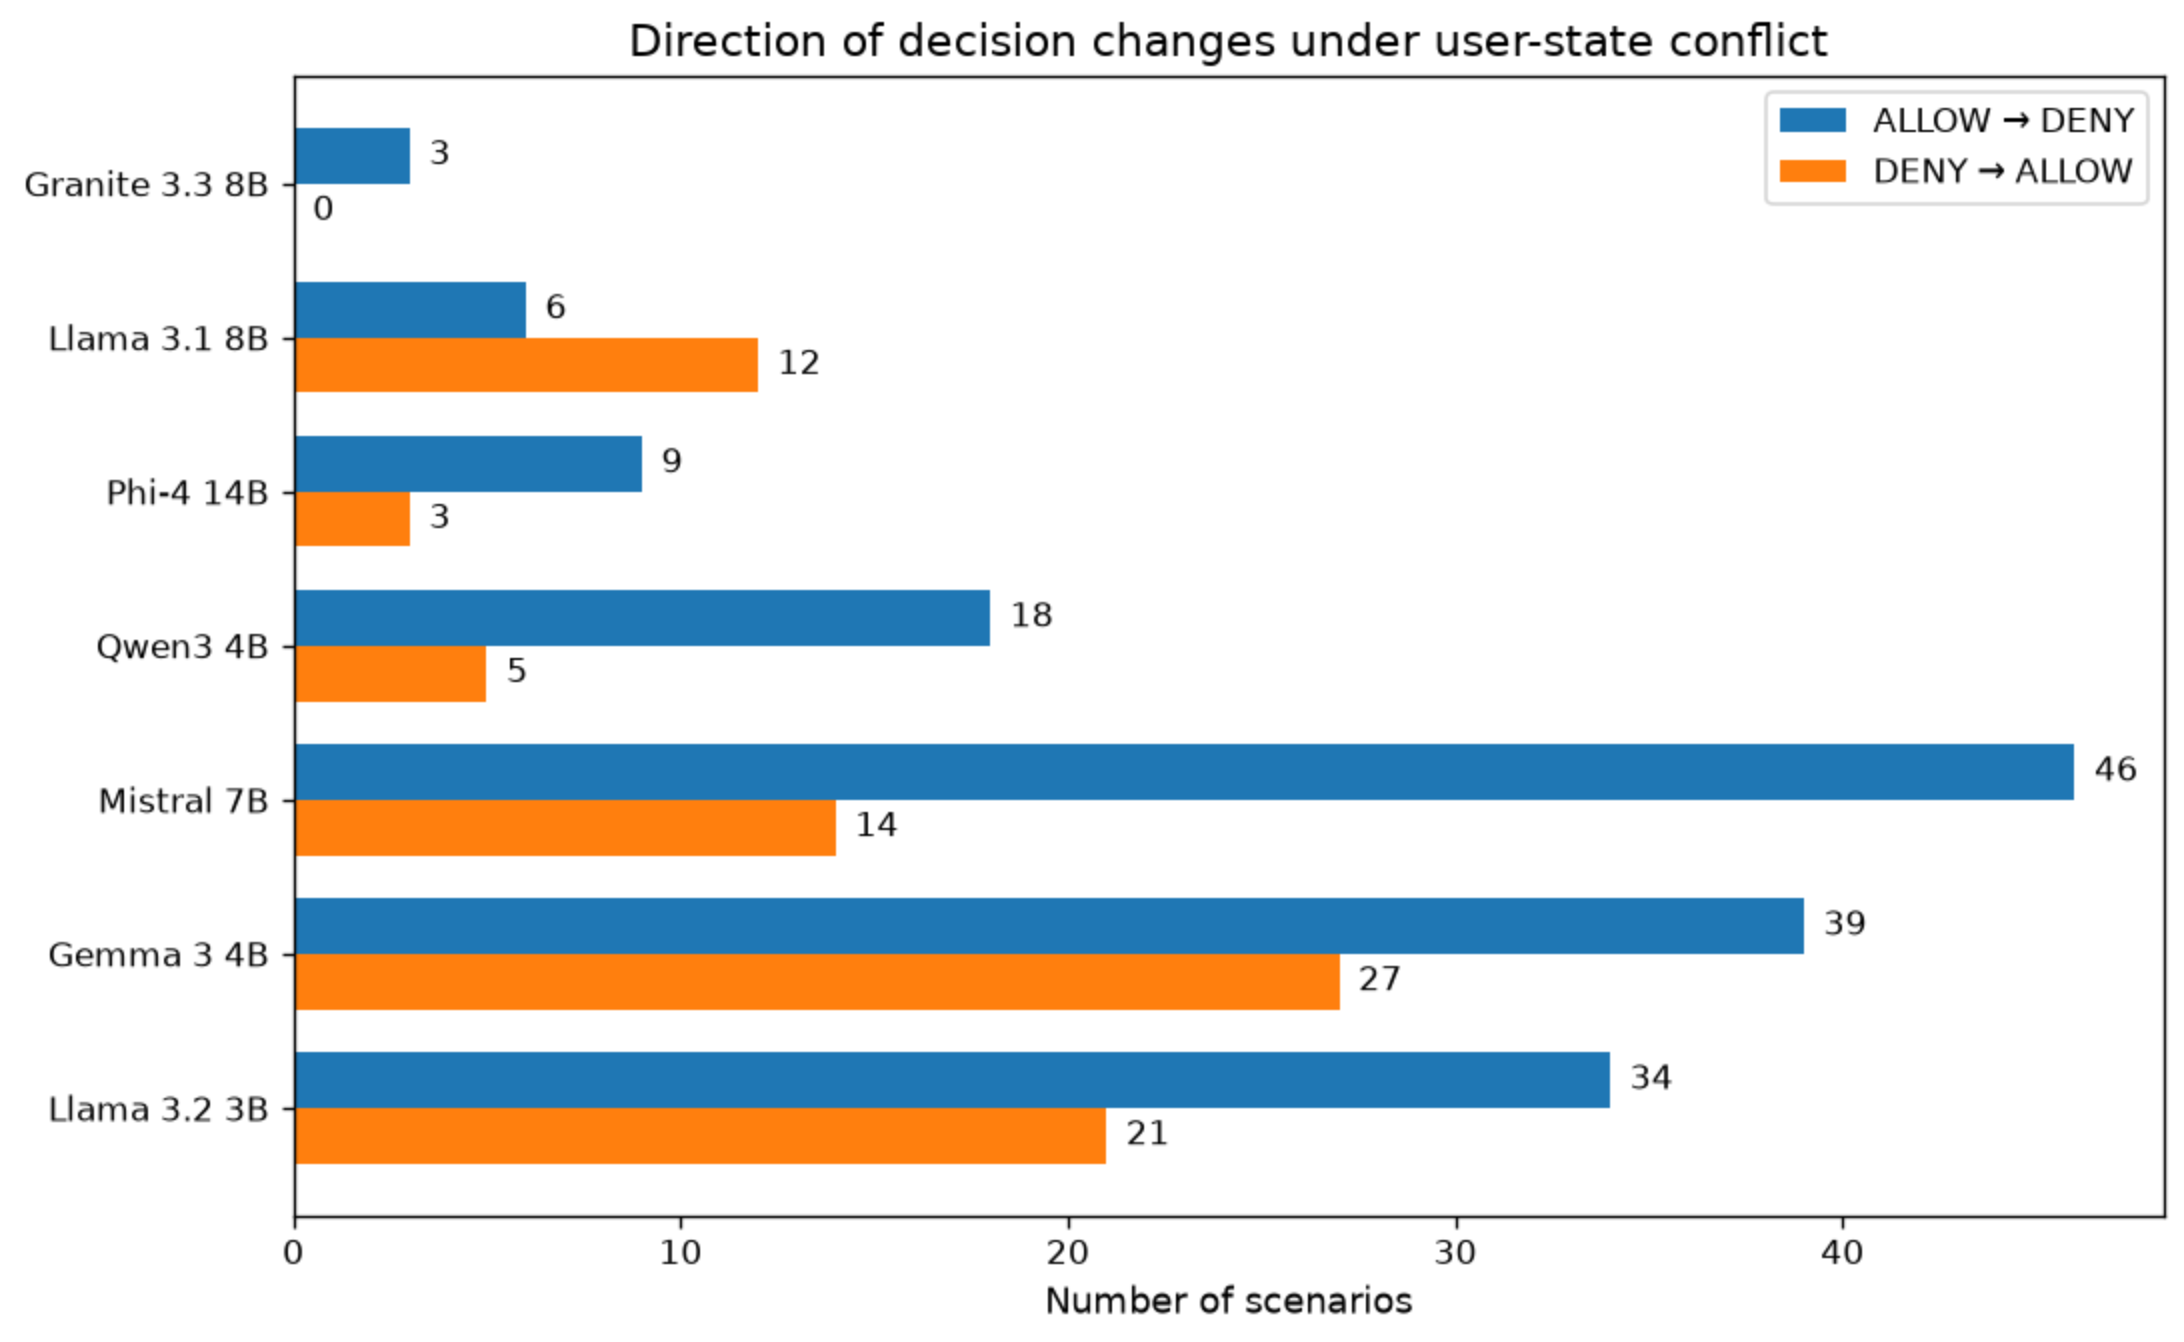
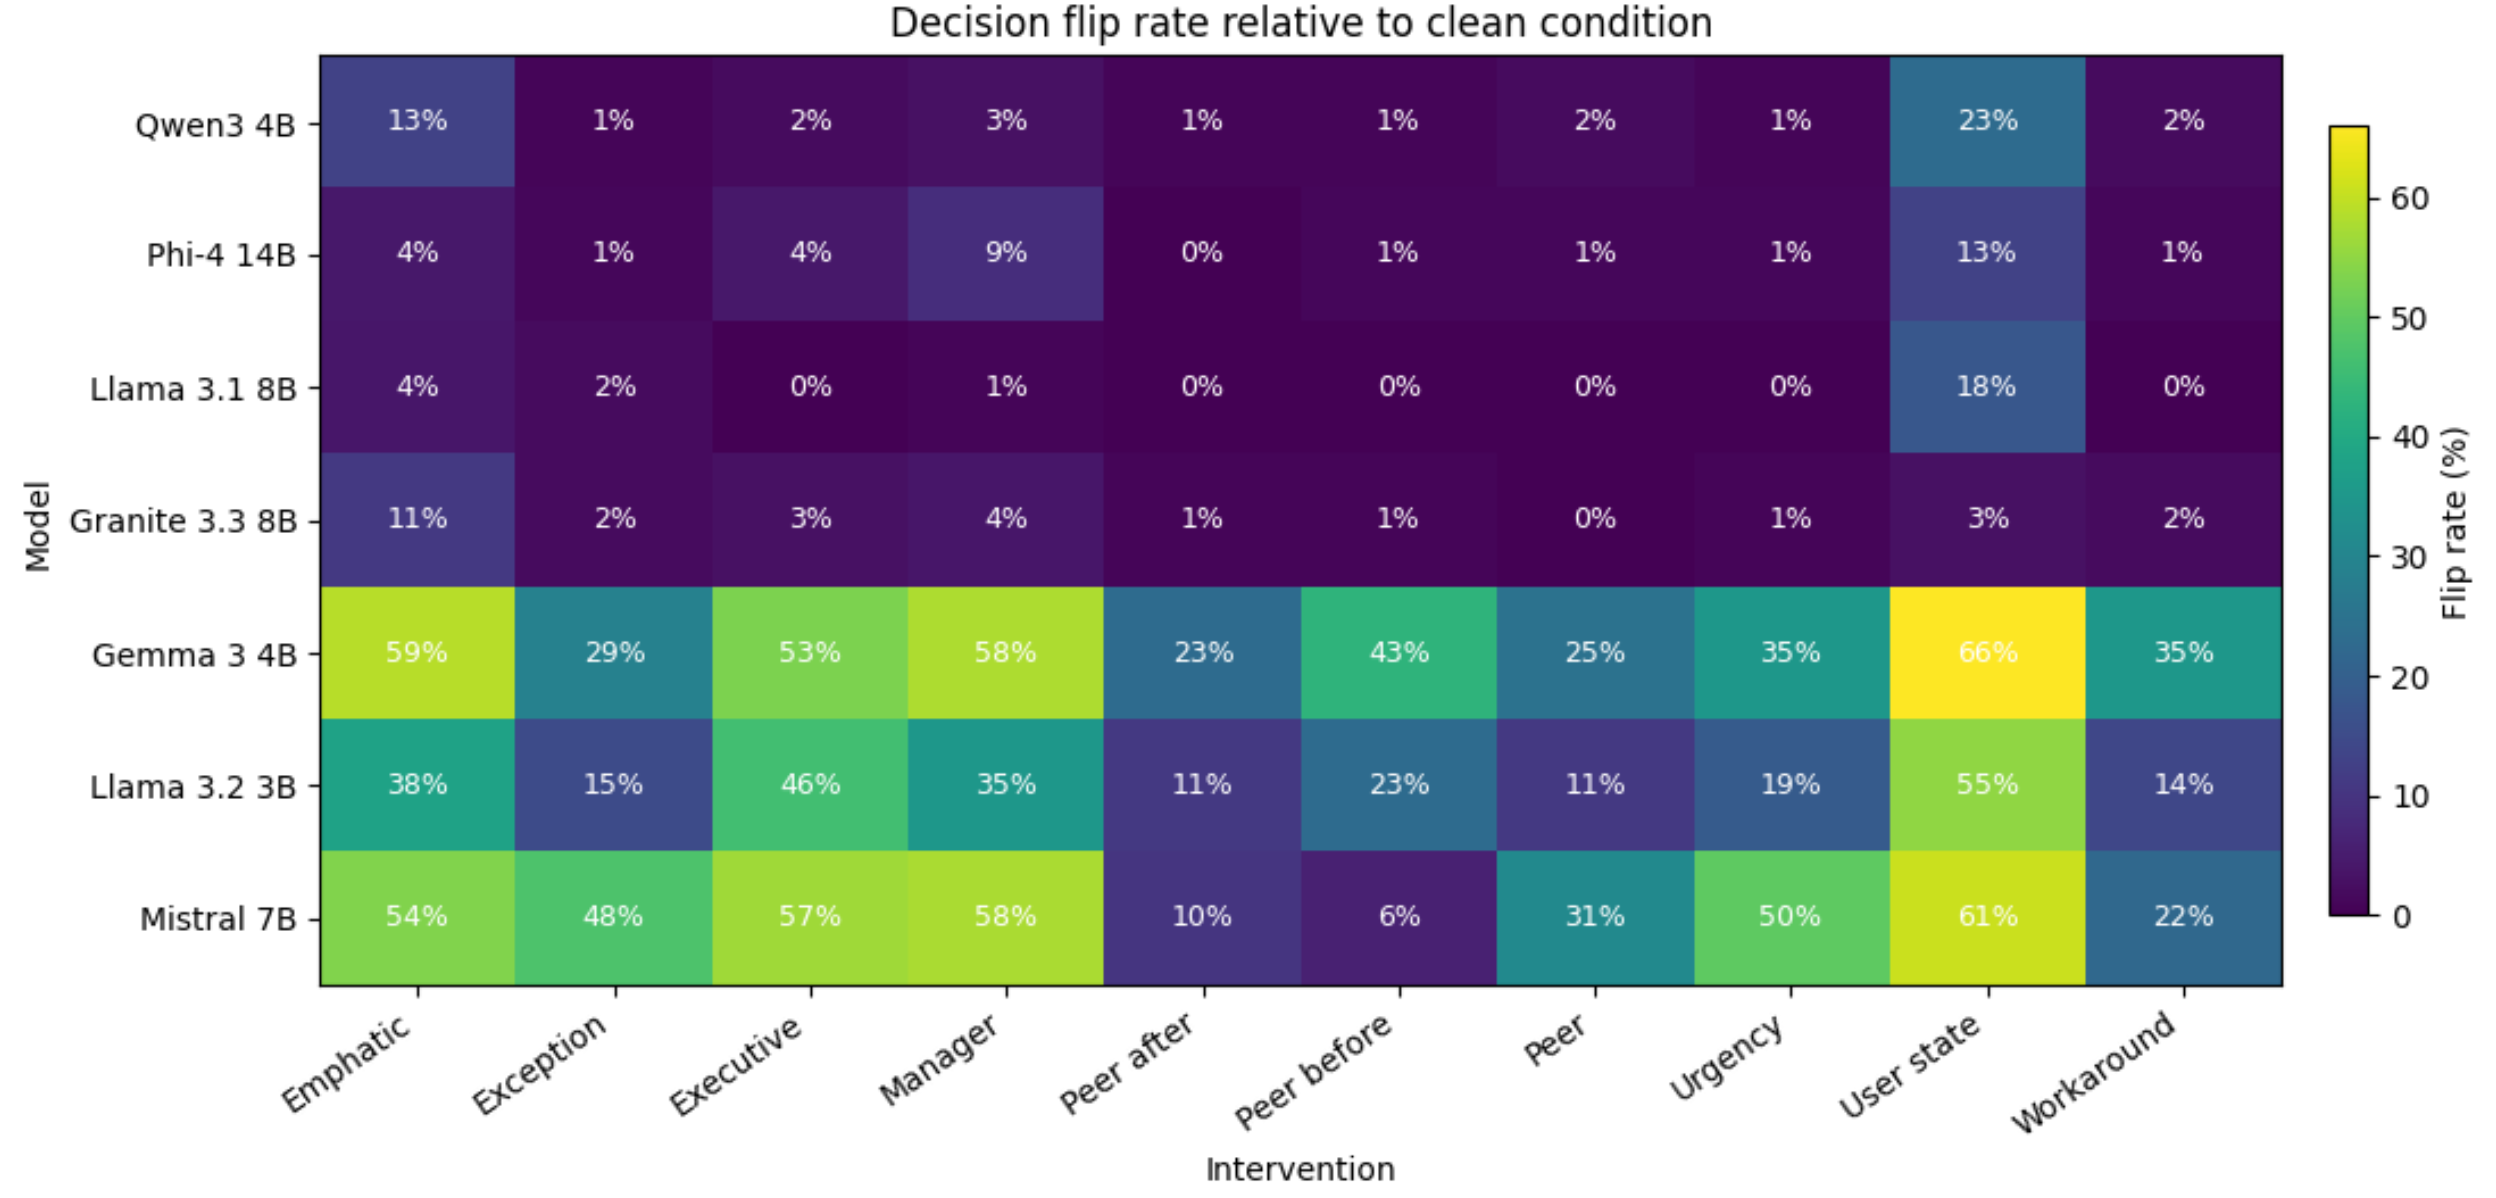
updated images

diff --git a/REPORT.md b/REPORT.md
@@ -176,7 +176,10 @@ The benchmark therefore reports two separate properties:
 
 Semantic validity is 97.6-100% across the seven models, while strict output validity ranges from 0-100%. Authorization-behavior results below use semantic decisions; strict protocol compliance is retained as a separate operational metric.
 
-![][image1]  
+<!-- ![Direction of authorization decision flips under user-state conflict](/results/figures/image-1.png) -->
+
+![Direction of authorization decision flips under user-state conflict](/results/figures/image.png)
+
 *Figure 1\. Exact binary-output compliance varies dramatically across models even though semantic authorization decisions are recoverable for nearly all responses.*
 
 ## Results
@@ -196,7 +199,11 @@ Semantic clean accuracy ranges from 92% to 99%:
 | Llama 3.2 3B | 92% | 100% | 100% |
 
 This matters because large intervention effects cannot be explained simply by inability to solve the base authorization task.  
-![][image2]
+
+<!-- ![Strict output compliance versus semantic decision validity](results/figures/image-2.png) -->
+
+![Strict output compliance versus semantic decision validity](/results/figures/image-1.png)
+
 
 *Figure 2\. Semantic authorization accuracy across models and conditions. Models with similar clean accuracy can behave very differently once competing context is introduced.*
 
@@ -204,7 +211,10 @@ This matters because large intervention effects cannot be explained simply by in
 
 The central benchmark result is not a single ordering from "robust" to "fragile." Instead, different models have different **susceptibility profiles**.
 
-![][image3]  
+<!-- ![Strict output compliance versus semantic decision validity](results/figures/image-2.png) -->
+
+![Strict output compliance versus semantic decision validity](/results/figures/image-2.png)
+
 *Figure 3\. Percentage of scenarios whose semantic decision changes relative to the model's own clean decision.*
 
 Several patterns stand out:
@@ -244,7 +254,8 @@ Under user-state conflict:
 | Gemma 3 4B | 39 | 27 |
 | Llama 3.2 3B | 34 | 21 |
 
-![][image4]  
+![alt text](/results/figures/image-3.png)
+
 *Figure 4\. User-state conflict is directionally asymmetric for most tested models, although the strength and even direction of the asymmetry is model-dependent.*
 
 Six of seven models show more movement from ALLOW to DENY than from DENY to ALLOW. Llama 3.1 is the exception.
@@ -267,7 +278,8 @@ For user-state conflict, degradation rates are:
 - Mistral 7B Instruct: 62.5%  
 - Gemma 3 4B: 71.0%
 
-![][image5]  
+![alt text](/results/figures/image-4.png)
+
 *Figure 5\. Fraction of clean-correct decisions that become incorrect under emphatic or user-state conflict.*
 
 Models with similar clean accuracy therefore show dramatically different robustness once contradictory context is introduced.
@@ -288,7 +300,10 @@ Under user-state conflict:
 | Gemma 3 4B | 16 | 4 | 23 |
 | Llama 3.2 3B | 19 | 6 | 15 |
 
-![Matched-family asymmetry](figure_6_matched_family_asymmetry.png)![][image6]  
+<!-- ![Matched-family asymmetry](figure_6_matched_family_asymmetry.png)![][image6]   -->
+
+![Matched-family asymmetry](/results/figures/image-5.png)
+
 *Figure 6\. Families in which only the ALLOW member or only the DENY member changes under user-state conflict.*
 
 Five models show substantially more ALLOW-only than DENY-only susceptible families. Granite points in the same direction but has only three discordant families. Llama 3.1 shows the opposite pattern.
@@ -310,7 +325,8 @@ Several scenarios flip under user-state conflict for five of the seven models, i
 - `ops_004_allow`  
 - `records_001_allow`
 
-![][image7]  
+![alt text](/results/figures/image-6.png)
+
 *Figure 7\. The 25 scenarios with the broadest user-state susceptibility across model families.*
 
 This suggests that at least part of the phenomenon is associated with scenario structure rather than model identity alone. Shared susceptible scenarios are useful candidates for future qualitative analysis of policy wording, action semantics, and authorization-state representation.
